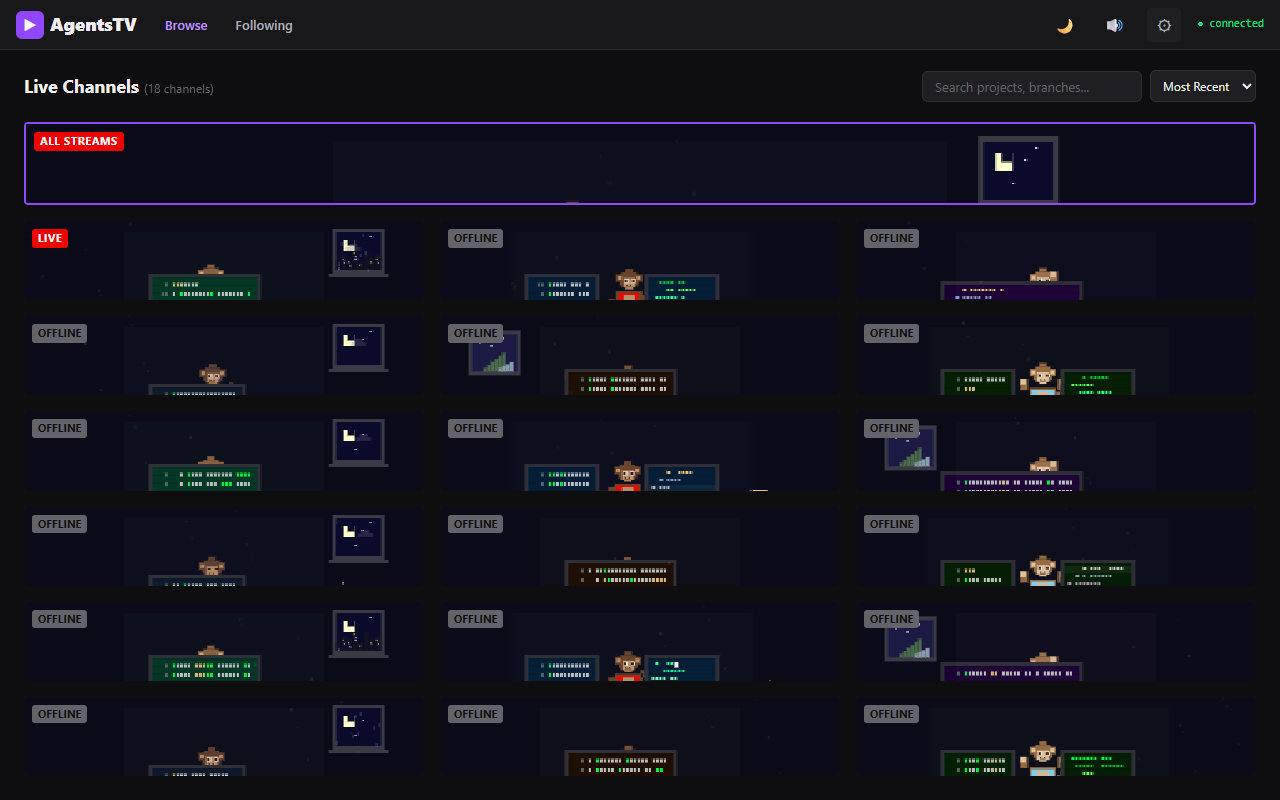
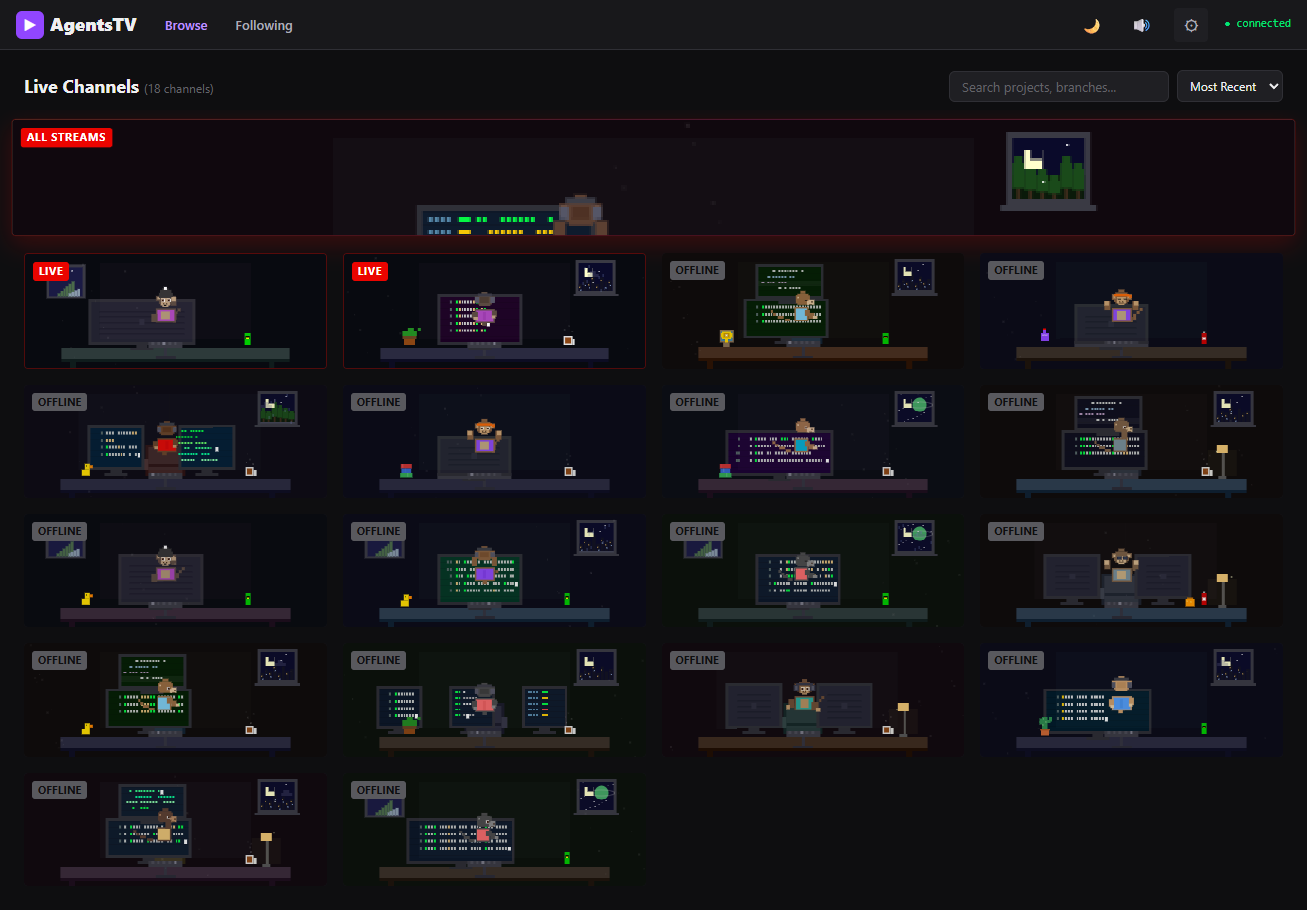
add office chair (seat, armrests, pedestal) + updated screenshots with LLM chat

diff --git a/agentstv/web/pixelEngine.js b/agentstv/web/pixelEngine.js
@@ -108,11 +108,31 @@ export function drawPixelScene(canvas, seed, frame, isLarge) {
     // Camera angle varies per session: 0=back, 1=side, 2=front
     const viewAngle = seed % 3;
 
-    // Chair
-    ctx.fillStyle = darken(palette.chair, 20);
+    // Chair — back, seat, armrests, and pedestal base
+    const chairDark = darken(palette.chair, 20);
+    const chairColor = palette.chair;
+    const chairLight = darken(palette.chair, -10);
+    // Chair back (tall panel behind character)
+    ctx.fillStyle = chairDark;
     ctx.fillRect(charX - px * 2, charY - px * 4, px * 14, px * 8);
-    ctx.fillStyle = palette.chair;
+    ctx.fillStyle = chairColor;
     ctx.fillRect(charX - px, charY - px * 3, px * 12, px * 6);
+    // Seat cushion (horizontal pad the character sits on)
+    ctx.fillStyle = chairDark;
+    ctx.fillRect(charX - px * 2, charY + px * 4, px * 14, px * 3);
+    ctx.fillStyle = chairColor;
+    ctx.fillRect(charX - px, charY + px * 4, px * 12, px * 2);
+    // Armrests (small side pieces)
+    ctx.fillStyle = chairLight;
+    ctx.fillRect(charX - px * 3, charY + px * 1, px * 2, px * 4);
+    ctx.fillRect(charX + px * 11, charY + px * 1, px * 2, px * 4);
+    // Chair pedestal (single leg + base)
+    ctx.fillStyle = '#333340';
+    const pedX = charX + px * 4.5;
+    ctx.fillRect(pedX, charY + px * 7, px, deskY + px * 4 - (charY + px * 7));
+    // Wheeled base
+    ctx.fillStyle = '#2a2a35';
+    ctx.fillRect(pedX - px * 3, deskY + px * 3, px * 7, px);
 
     // Always draw monitors first, then character on top — the character
     // sits between the viewer and the monitor in all camera angles.
